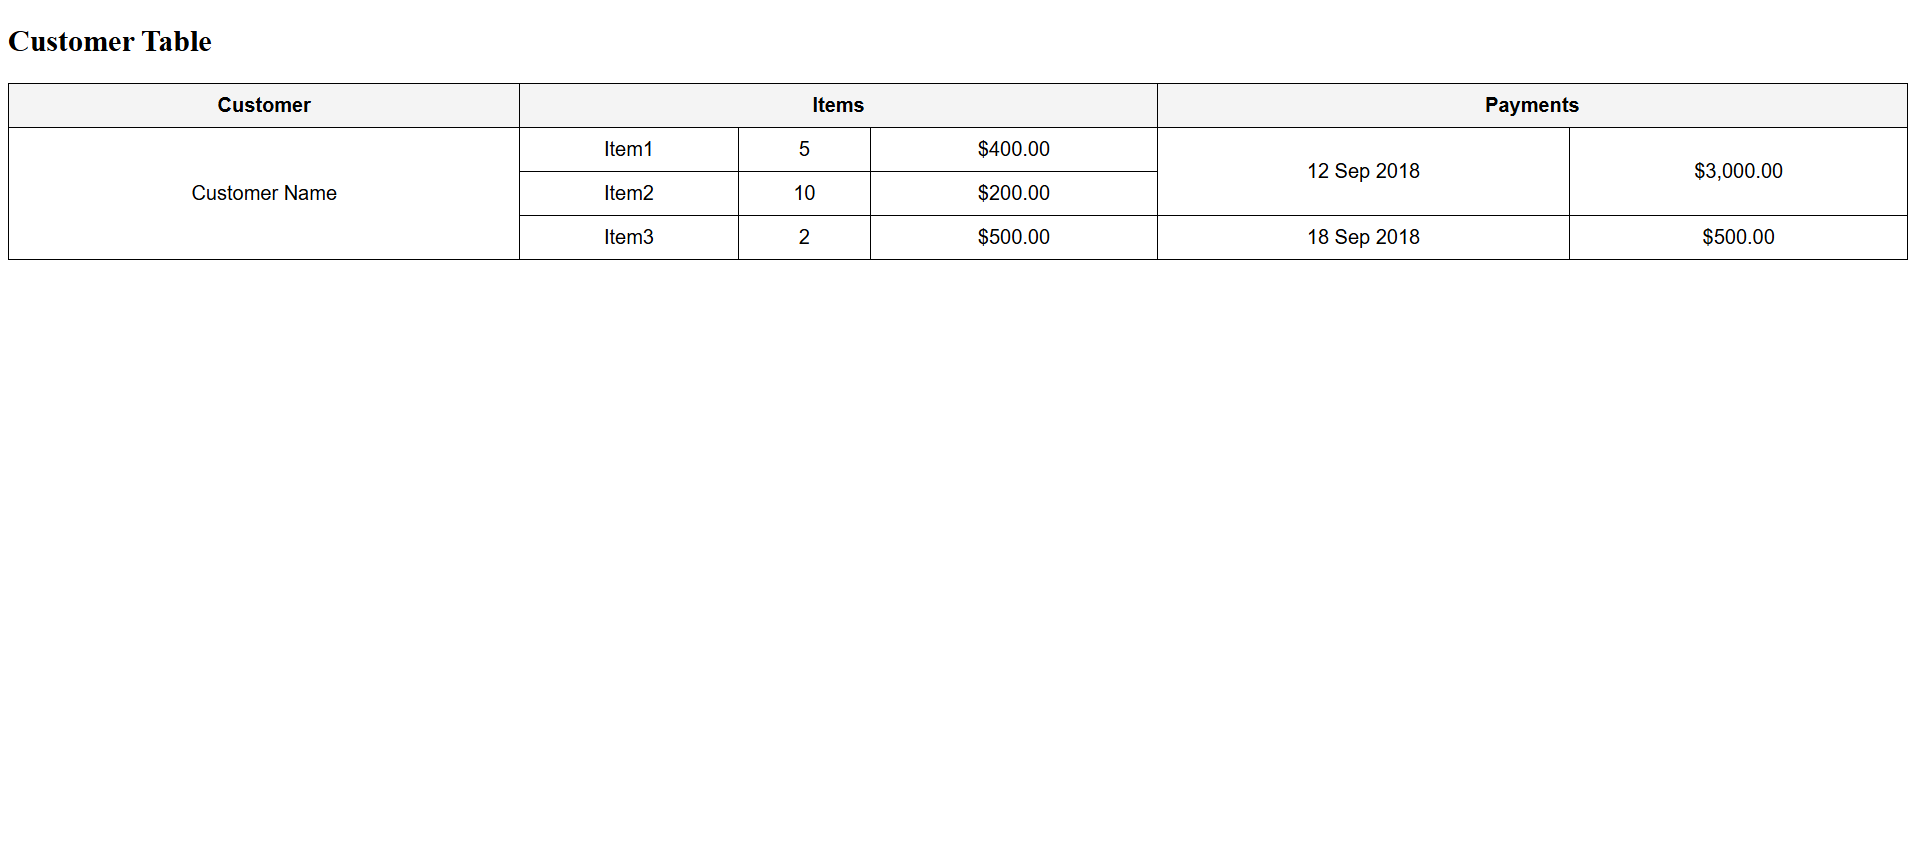
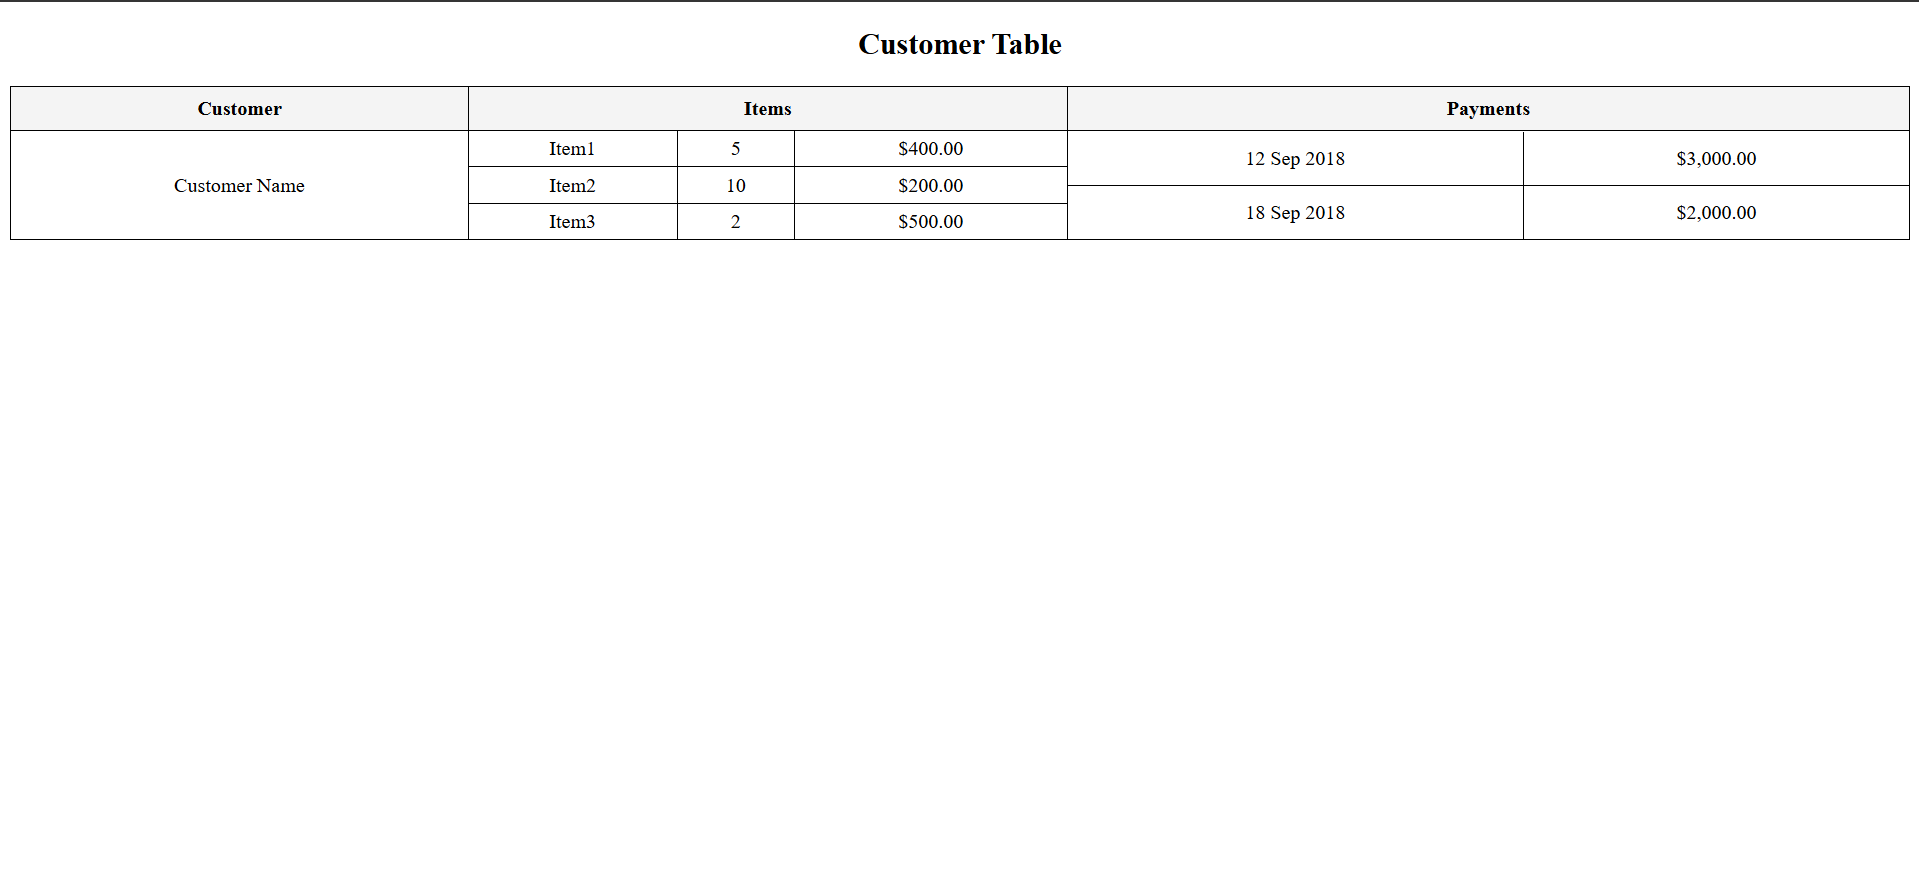
Completed the 8th question

diff --git a/HTML & CSS Task/Task1/Q8/Q8.html b/HTML & CSS Task/Task1/Q8/Q8.html
@@ -1,5 +1,6 @@
 <!DOCTYPE html>
 <html lang="en">
+
 <head>
     <meta charset="UTF-8">
     <meta name="viewport" content="width=device-width, initial-scale=1.0">
@@ -8,55 +9,125 @@
         table {
             width: 100%;
             border-collapse: collapse;
-            margin: 20px 0;
-            font-family: Arial, sans-serif;
         }
+
         th, td {
-            border: 1px solid #000;
+            border: 1px solid black;
             padding: 8px;
             text-align: center;
         }
+
         th {
             background-color: #f4f4f4;
         }
+
+        td {
+            padding: 0;
+            text-align: center;
+        }
+        #items{
+            border-collapse: collapse;
+            width: 100%;
+        }
+        #items td{
+            border-top: 0;
+            border-bottom: 1px solid black;
+            border-left: 0;
+            border-right: 1px solid black;
+            padding: 5px;
+        }
+        #items tr td:last-of-type{
+            border-top: 0;
+            border-bottom: 1px solid black;
+            border-left: 0;
+            border-right: 0;
+        }
+        #items tr:last-of-type td {
+            border-top: 0;
+            border-bottom: 0;
+            border-left: 0;
+            border-right: 1px solid black;
+        }
+        #items tr:last-of-type td:last-of-type {
+            border: 0;
+        }
+       td#item{
+        padding: 0;
+       }
+       #payments td{
+            border-top: 0;
+            border-bottom: 1px solid black;
+            border-left: 0;
+            border-right: 1px solid black;
+            padding: 12px;
+        }
+        #payments tr td:last-of-type{
+            border-top: 0;
+            border-bottom: 1px solid black;
+            border-left: 0;
+            border-right: 0;
+        }
+        #payments tr:last-of-type td {
+            border-top: 0;
+            border-bottom: 0;
+            border-left: 0;
+            border-right: 1px solid black;
+        }
+        #payments  tr:last-of-type td:last-of-type {
+            border: 0;
+        }
+        td#payment{
+            padding-left: 0px;
+            margin:0;
+        }
+
     </style>
 </head>
-<body>
+
+<body><center>
     <h2>Customer Table</h2>
     <table>
-        <thead>
-            <tr>
-                <th rowspan="2">Customer</th>
-                <th colspan="3">Items</th>
-                <th colspan="2">Payments</th>
-            </tr>
-
-        </thead>
-        <tbody>
-            <tr>
-                <td rowspan="3">Customer Name</td>
-                <td>Item1</td>
-                <td>5</td>
-                <td>$400.00</td>
-                <td rowspan="2">12 Sep 2018</td>
-                <td rowspan="2">$3,000.00</td>
-            </tr>
-            <tr>
-                <td>Item2</td>
-                <td>10</td>
-                <td>$200.00</td>
-                
-                
-                
-            </tr>
-            <tr>
-                <td>Item3</td>
-                <td>2</td>
-                <td>$500.00</td>
-                <td>18 Sep 2018</td>
-                <td>$500.00</td>
-            </tr>
-        </tbody>
+        <tr>
+            <th>Customer</th>
+            <th>Items</th>
+            <th>Payments</th>
+        </tr>
+        <tr>
+            <td>Customer Name</td>
+            <td id="item">
+                <table id="items">
+                    <tr>
+                        <td>Item1</td>
+                        <td>5</td>
+                        <td>$400.00</td>
+                    </tr>
+                    <tr>
+                        <td>Item2</td>
+                        <td>10</td>
+                        <td>$200.00</td>
+                    </tr>
+                    <tr>
+                        <td>Item3</td>
+                        <td>2</td>
+                        <td>$500.00</td>
+                    </tr>
+                </table>
+            </td>
+            <td id="payment">
+                <table id="payments">
+                    <tr>
+                        <td>12 Sep 2018</td>
+                        <td>$3,000.00</td>
+                    </tr>
+                    <tr>
+                        <td>18 Sep 2018</td>
+                        <td>$2,000.00</td>
+                    </tr>
+                </table>
+            </td>
+        </tr>
     </table>
+</center>
 </body>
+
 </html>
